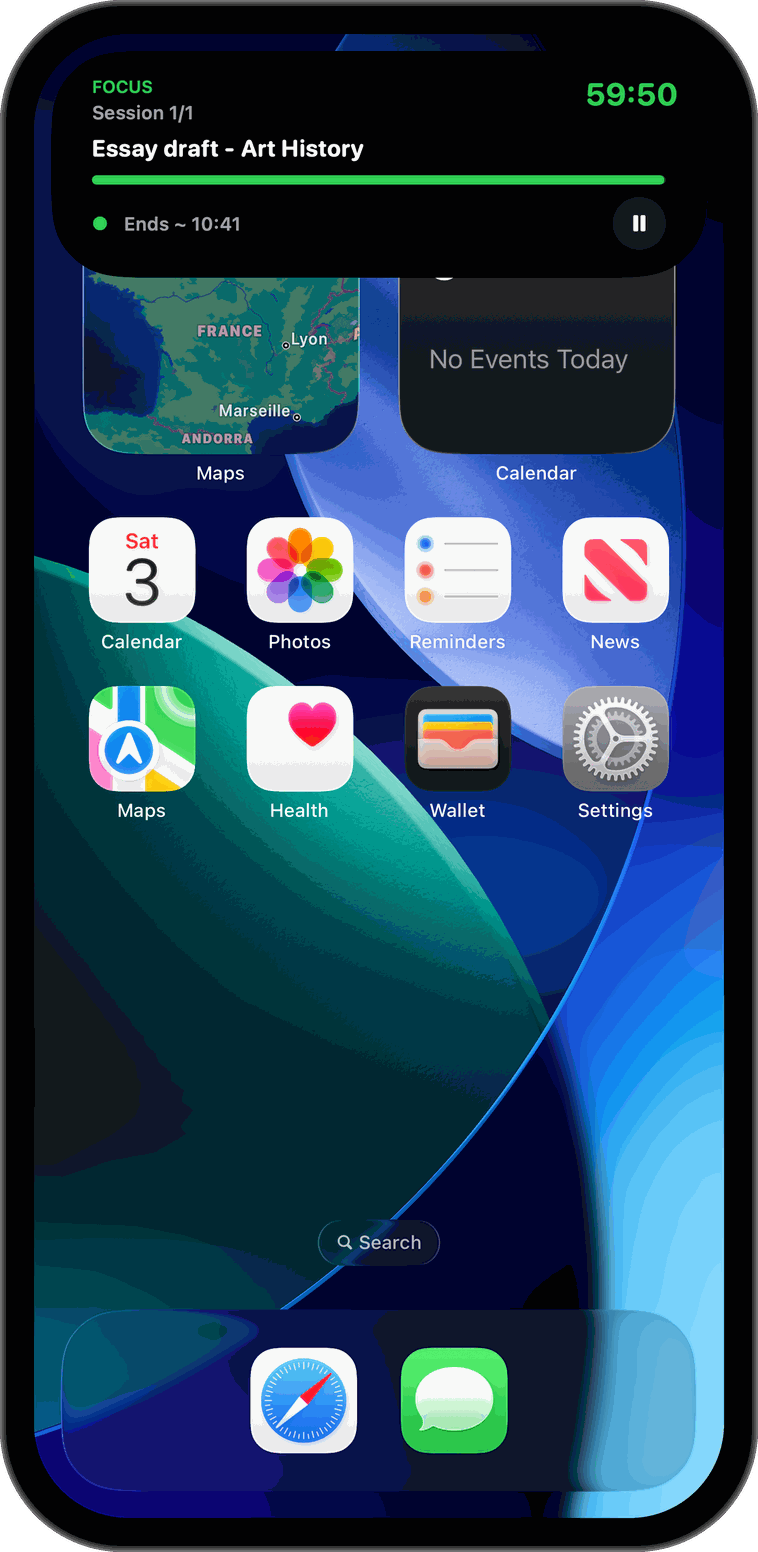
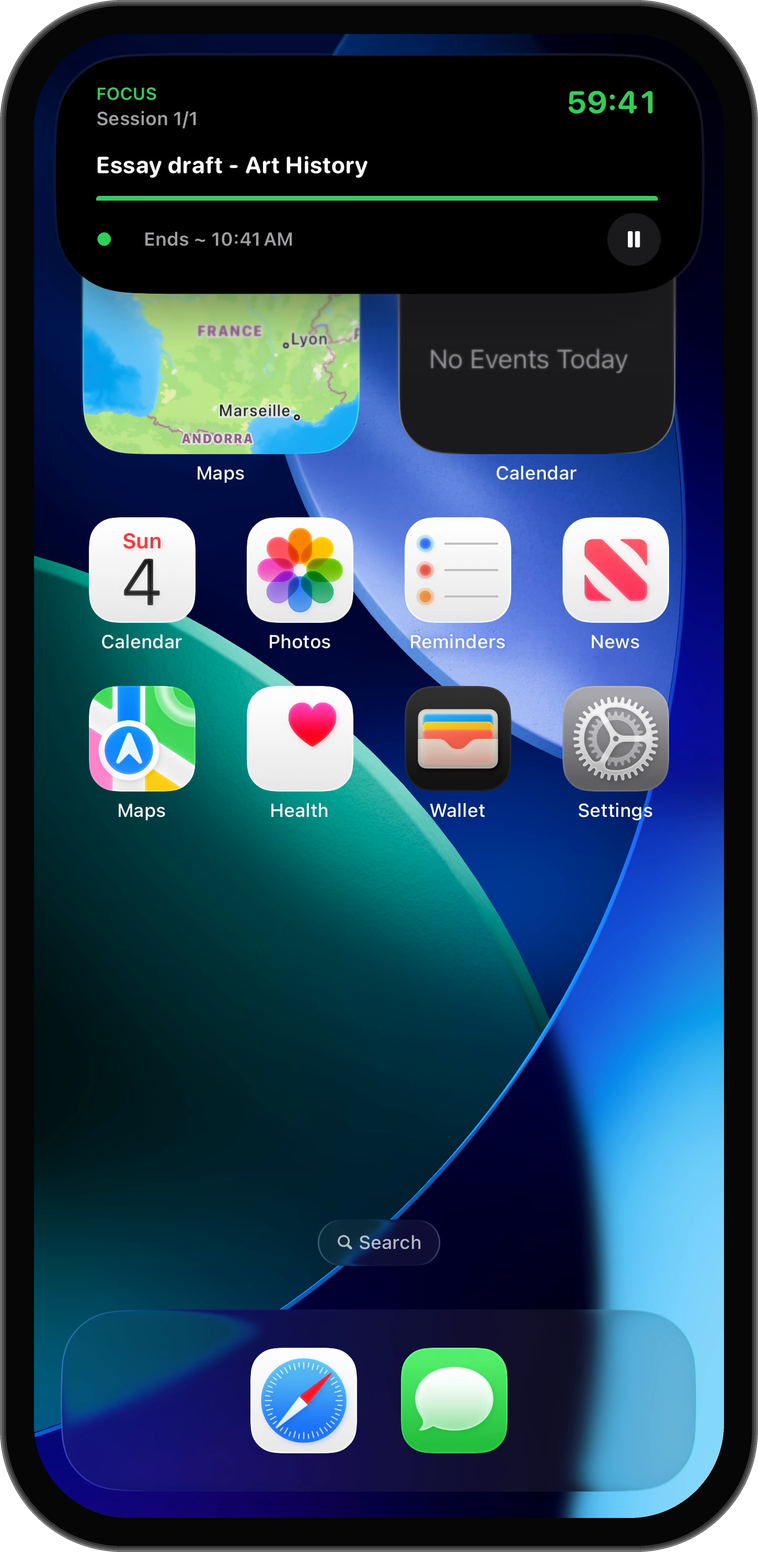
Vraies captures de la Live Activity et de la Dynamic Island

diff --git a/README.md b/README.md
@@ -140,8 +140,9 @@ planner.png  stats.png   equity.png    kid.png       family.png
 
 Elles viennent du dossier `CAPTURES_CLINCHY_2026-10/Framed_iPhone_transparent_758x1552`
 (famille démo Bennett, en anglais, 9:41), produit depuis le dépôt de l'app
-(`scripts/frameShowcaseShots.py`). `live.png` et `island.png` sont des rendus de la
-Live Activity réelle (`scripts/renderLiveActivity.swift`), allégés en 256 couleurs.
+(`scripts/frameShowcaseShots.py`). `live.png` et `island.png` sont de vraies captures
+de la Live Activity (écran verrouillé, Dynamic Island étendue), gardées en couleurs
+pleines : en 256 couleurs, le fond d'écran iOS fait des aplats.
 Pour remplacer une capture, garde le même nom et le ratio 758:1552.
 
 ### Badges App Store / Google Play
